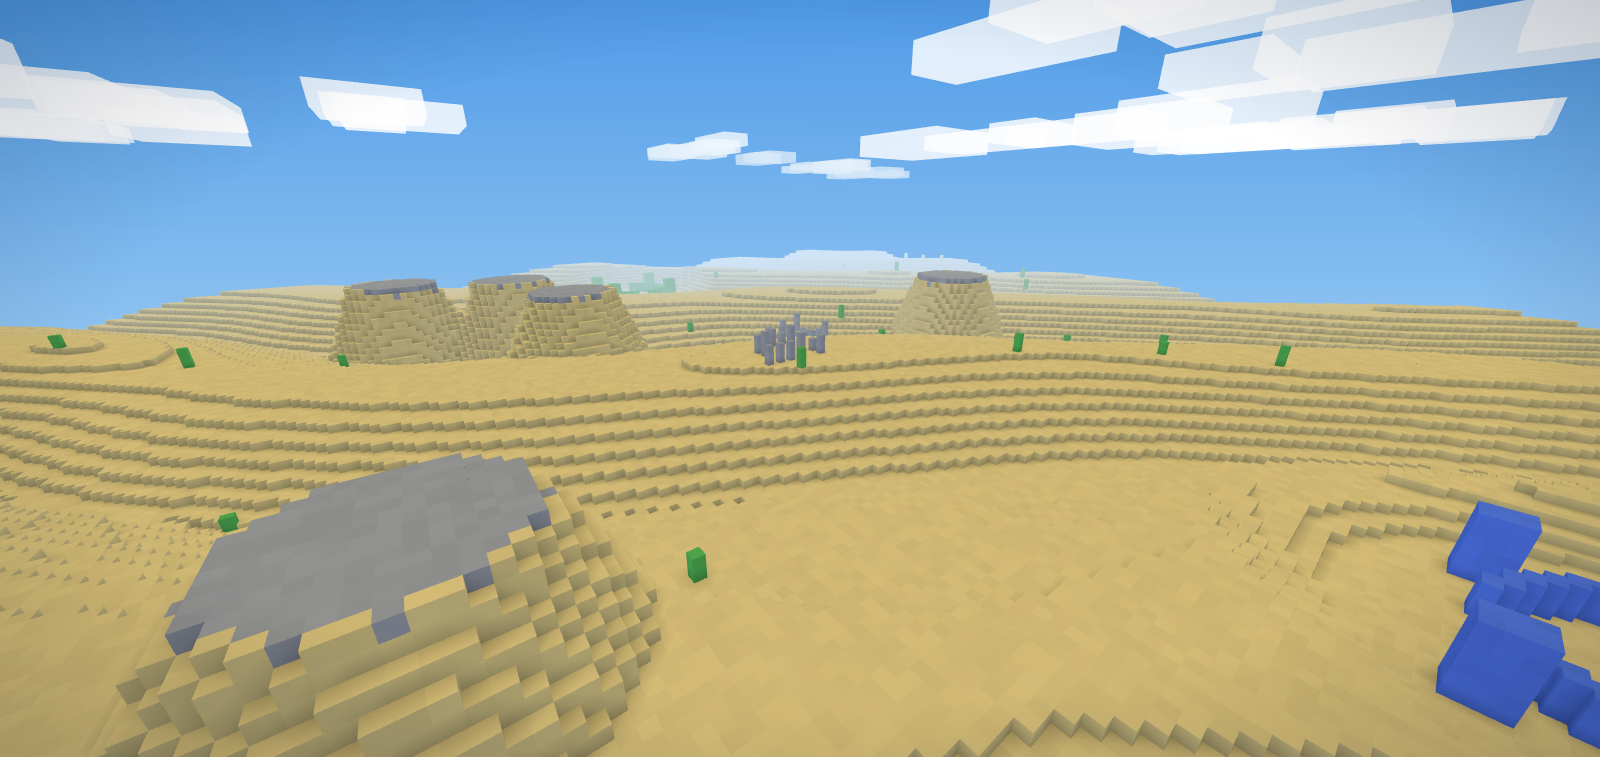
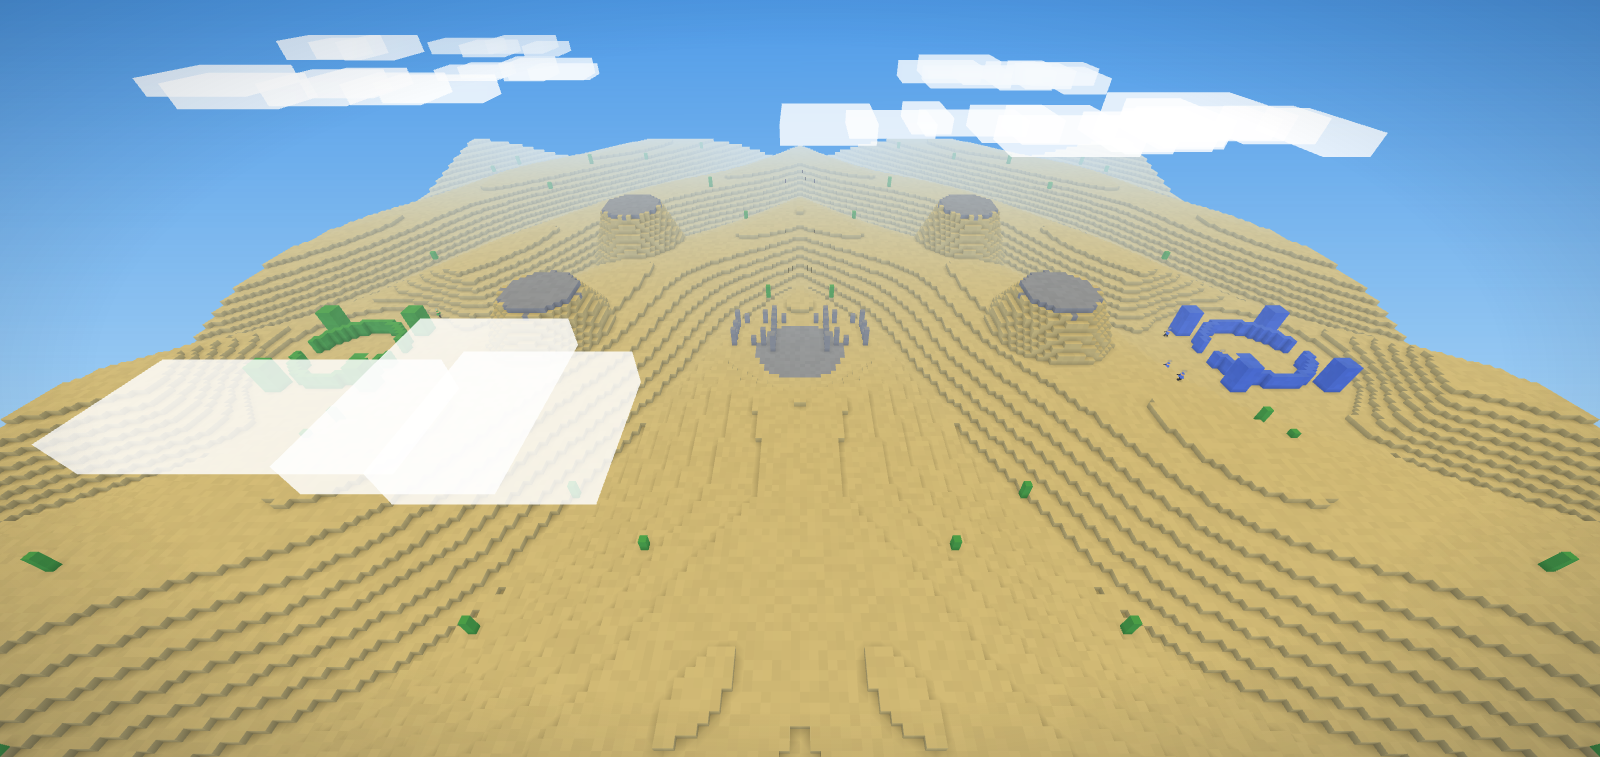
Mirror Dunes about midfield so its hill fight is fair
The desert now generates only its west half and mirrors it east
(x -> 255-x): dune field folds along the axis, every mesa gets a twin,
and the ruins and cacti are placed as mirrored pairs with identical gap
patterns. Both teams walk identical approaches to the point.

The hill itself gets a flat stone-capped pad at dead center (flat to 9
blocks, blended back into the dunes by 20), centered on the 127.5 mirror
axis exactly so the flattening can't break the symmetry it creates.
Mesas keep 34 clear of the point: no seed hands one side an untouchable
perch.

Verified numerically: 29,959 columns checked, zero mirror mismatches
outside the base discs; pad floor 96% flat (the rest is the mirrored
ruins); identical west/east approach profiles. New docs aerial.

diff --git a/src/mapgen.js b/src/mapgen.js
@@ -28,7 +28,7 @@ function mulberry32(a) {
 
 // modes: which game modes the map supports. DUNES retired from the CTF
 // rotation (its long sniper lanes punish flag runs) but kept for deathmatch
-// and king of the hill, where the midfield mesa is a natural point.
+// and king of the hill, mirrored about midfield so the hill fight is fair.
 // hill: king-of-the-hill zone — center column and radius in blocks.
 export const MAPS = [
   { key: 'island',  name: 'GREENBELT', modes: ['ctf', 'tdm'],        gen: null },
@@ -300,16 +300,25 @@ function genForest(world, seed) {
 function genDesert(world, seed) {
   const noise = makeNoise(seed);
   const height = new Float32Array(SX * SZ);
-  const mesas = [];
+  const CX = SX / 2, CZ = SZ / 2; // the hill sits at dead center
+  // Everything west of the midfield axis is mirrored east (x -> SX-1-x), so
+  // both teams walk identical approaches, perches, and cover. The bases sit
+  // at matching z, which makes the mirror line the fair line.
   const rnd0 = mulberry32(seed ^ 0xde5e37);
-  for (let i = 0; i < 5; i++)
-    mesas.push([50 + rnd0() * (SX - 100), 40 + rnd0() * (SZ - 80)]);
+  const mesas = [];
+  while (mesas.length < 4) {
+    const mx = 44 + rnd0() * 62, mz = 40 + rnd0() * (SZ - 80); // west half only
+    if (Math.hypot(mx - CX, mz - CZ) < 34) continue;      // no perch on the point
+    if (Math.hypot(mx - BASE.green.x, mz - BASE.green.z) < 40) continue;
+    mesas.push([mx, mz], [SX - 1 - mx, mz]);              // every mesa has a twin
+  }
 
   for (let z = 0; z < SZ; z++)
     for (let x = 0; x < SX; x++) {
+      const fx = Math.min(x, SX - 1 - x); // folded west: the east is a mirror
       // Ridged dune field marching diagonally across the map.
-      const dune = Math.abs(Math.sin((x + z) * 0.045 + noise(x * 0.01, z * 0.01) * 3));
-      let h = SEA + 6 + dune * 7 + noise(x * 0.03, z * 0.03) * 2.5;
+      const dune = Math.abs(Math.sin((fx + z) * 0.045 + noise(fx * 0.01, z * 0.01) * 3));
+      let h = SEA + 6 + dune * 7 + noise(fx * 0.03, z * 0.03) * 2.5;
       for (const [mx, mz] of mesas) {
         const d = Math.hypot(x - mx, z - mz);
         if (d < 12) { // flat top, sheer sides
@@ -320,8 +329,24 @@ function genDesert(world, seed) {
       height[at(x, z)] = Math.min(SY - 8, Math.max(SEA + 3, h)); // no sea here
     }
 
+  // The hill pad: a flat, stone-capped disc at dead center, so the point
+  // fights the same from every approach. Blends back into the dunes outside.
+  // Centered on the 127.5 mirror axis exactly, or the blend ring would break
+  // the symmetry it flattens.
+  const PAD = SEA + 9, AX = (SX - 1) / 2;
+  for (let z = 0; z < SZ; z++)
+    for (let x = 0; x < SX; x++) {
+      const d = Math.hypot(x - AX, z - CZ);
+      if (d < 20) {
+        const t = ss((d - 9) / 11);
+        const i = at(x, z);
+        height[i] = height[i] * t + PAD * (1 - t);
+      }
+    }
+
   flattenBases(height);
-  fillColumns(world, height, () => BLOCK.SAND, BLOCK.SAND);
+  fillColumns(world, height,
+    (x, z) => Math.hypot(x - AX, z - CZ) < 9 ? BLOCK.STONE : BLOCK.SAND, BLOCK.SAND);
 
   // Mesas cap in stone — the perch reads as rock and tunnels stay sandy.
   for (const [mx, mz] of mesas)
@@ -333,29 +358,37 @@ function genDesert(world, seed) {
         world.data[(y * SZ + z) * SX + x] = BLOCK.STONE;
       }
 
-  // Midfield ruins: two broken sandstone rectangles, waist-to-head high.
+  // Midfield ruins: one broken sandstone rectangle north of the point, placed
+  // twice — itself and its mirror twin. Same walls, same gaps, same fight.
   const rnd = mulberry32(seed ^ 0x2015);
-  for (const [rx, rz] of [[SX / 2 - 14, SZ / 2 - 10], [SX / 2 + 8, SZ / 2 + 8]]) {
+  {
+    const rx = SX / 2 - 14, rz = SZ / 2 - 10, cols = [];
     for (let per = 0; per < 22; per++) {
       const side = per % 4, step = Math.floor(per / 4);
       const x = rx + (side === 0 ? step * 2 : side === 1 ? 8 : side === 2 ? step * 2 : 0);
       const z = rz + (side === 0 ? 0 : side === 1 ? step * 2 : side === 2 ? 8 : step * 2);
-      if (rnd() < 0.3) continue; // collapsed gaps
-      const y = Math.floor(height[at(x, z)]);
-      const wallH = 2 + Math.floor(rnd() * 3);
-      for (let wy = 1; wy <= wallH; wy++)
-        world.data[((y + wy) * SZ + z) * SX + x] = BLOCK.STONE;
+      cols.push([x, z, rnd() < 0.3, 2 + Math.floor(rnd() * 3)]);
+    }
+    for (const [x, z, gone, wallH] of cols) {
+      if (gone) continue; // collapsed gaps
+      for (const px of [x, SX - 1 - x]) {
+        const y = Math.floor(height[at(px, z)]);
+        for (let wy = 1; wy <= wallH; wy++)
+          world.data[((y + wy) * SZ + z) * SX + px] = BLOCK.STONE;
+      }
     }
   }
-  // Cacti.
-  for (let i = 0; i < 42; i++) {
-    const x = 6 + Math.floor(rnd() * (SX - 12)), z = 6 + Math.floor(rnd() * (SZ - 12));
+  // Cacti, mirrored like everything else.
+  for (let i = 0; i < 21; i++) {
+    const x = 6 + Math.floor(rnd() * (CX - 12)), z = 6 + Math.floor(rnd() * (SZ - 12));
+    if (Math.hypot(x - CX, z - CZ) < 14) continue; // the arena stays clear
     if (Math.hypot(x - BASE.green.x, z - BASE.green.z) < 24) continue;
-    if (Math.hypot(x - BASE.blue.x, z - BASE.blue.z) < 24) continue;
-    const y = Math.floor(height[at(x, z)]);
     const cactusH = 2 + Math.floor(rnd() * 2);
-    for (let cy = 1; cy <= cactusH; cy++)
-      world.data[((y + cy) * SZ + z) * SX + x] = BLOCK.GREEN;
+    for (const px of [x, SX - 1 - x]) {
+      const y = Math.floor(height[at(px, z)]);
+      for (let cy = 1; cy <= cactusH; cy++)
+        world.data[((y + cy) * SZ + z) * SX + px] = BLOCK.GREEN;
+    }
   }
 
   buildBase(world, height, 'green');

diff --git a/README.md b/README.md
@@ -113,7 +113,7 @@ the next map in that pool with a fresh seed:
 | **GREENBELT** | CTF · TDM | The classic rolling green island. Open hills and midfield ridgelines; pure arena CTF. |
 | **BEACHHEAD** | CTF · TDM | D-Day. Green team storms out of landing craft onto sand thick with tank traps, past their own beach-head pillbox and a trench cut into the bluff; Blue holds the heights in concrete MG pillboxes with firing slits. |
 | **PINEFALL** | CTF · TDM | Dense pine forest cut by a wide, winding creek. Short sightlines and flanking routes, ambush country. |
-| **DUNES** | TDM · KOTH | Desert mesas and ridged dunes. Long sniper lanes between sheer rock towers, ruins at midfield. Retired from the CTF pool (those lanes punished flag runs), it still hosts deathmatch and king of the hill. |
+| **DUNES** | TDM · KOTH | Desert mesas and ridged dunes. Long sniper lanes between sheer rock towers, ruins at midfield. Retired from the CTF pool (those lanes punished flag runs), it still hosts deathmatch and king of the hill. The whole map is mirrored about midfield and the hill sits on a flat stone pad at dead center, so the point fights fair from either side. |
 | **CROWN** | KOTH · TDM | A flat-topped plateau ringed by a moat and crossed by four causeways. The hill sits inside a broken ring fort at the top, stub towers on the corners. |
 | **CALDERA** | KOTH · TDM | A scorched volcanic crater breached by saddle gaps east and west. Basalt pillars stud the bowl; the hill crowns a knoll at the center. |
 
